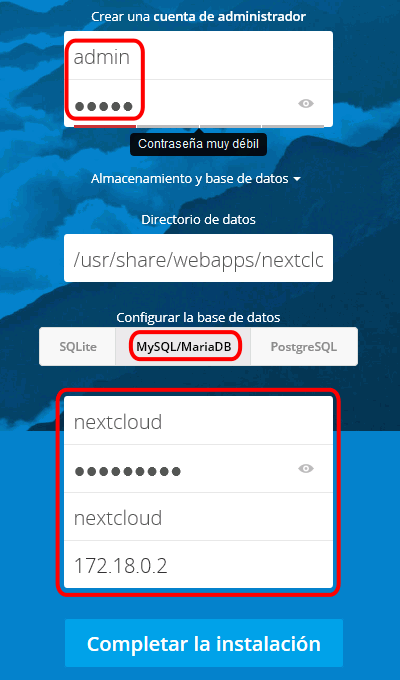
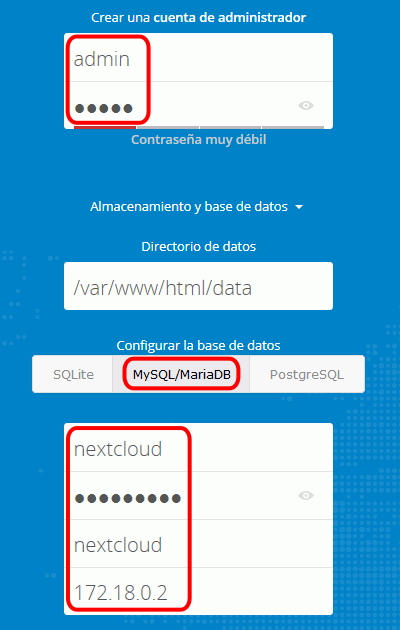
Sigo corrigiendo Nextcloud 1

diff --git a/otros/descarga-aplicaciones.html b/otros/descarga-aplicaciones.html
@@ -54,6 +54,9 @@
             <a href="http://www.mclibre.org/descargar/webapps/1718/wordpress_4-9_es-ES.zip">WordPress 4.9 en español (16/11/17)</a> -
             <a href="http://www.mclibre.org/descargar/webapps/1718/wordpress_4-9-1_es-ES.zip">WordPress 4.9.1 en español (29/11/17)</a>
           </li>
+          <li>NextCloud:
+            <a href="http://www.mclibre.org/descargar/webapps/1718/nextcloud_desktop_client_2-3-3-1.exe">Nextcloud Desktop Client 2.3.3 (20/11/17, 38,1 MB, versión para Windows)</a>
+          </li>
         </ul>
       </li>
       <li>Curso 2016/17
@@ -114,6 +117,7 @@
         <ul>
           <li><a href="http://www.mclibre.org/descargar/webapps/1617/webtrees-1.7.9.zip">WebTrees 1.7.9 (23/12/16)</a></li>
           <li><a href="http://www.mclibre.org/descargar/webapps/1617/elgg-2.3.1.zip">Elgg 1.7.9 (14/02/17)</a></li>
+          <li><a href="http://www.mclibre.org/descargar/webapps/1617/Joomla_3-7-2.zip">Joomla 3.7.2 (23/05/17)</a></li>
         </ul>
       </li>
       <li>Curso 2015/16
@@ -183,7 +187,7 @@
   </section>
 
   <footer>
-    <p class="ultmod">Última modificación de esta página: 11 de enero de 2018</p>
+    <p class="ultmod">Última modificación de esta página: 12 de febrero de 2018</p>
 
     <p class="licencia"><a rel="license" href="https://creativecommons.org/licenses/by-sa/4.0/deed.es_ES"><img src="../varios/iconos/icono-cc-by-sa.svg" alt="Licencia Creative Commons" title="Licencia Creative Commons BY-SA" width="120" height="42" /></a><br />
       Esta página forma parte del curso <strong><a href="http://www.mclibre.org/consultar/webapps/">Aplicaciones web</a></strong> por <a href="http://www.mclibre.org/" rel="author">Bartolomé Sintes Marco</a><br />

diff --git a/lecciones/nextcloud-1-soluciones.html b/lecciones/nextcloud-1-soluciones.html
@@ -101,7 +101,7 @@
         <p>La dirección debe ser del tipo <span class="codigo-modificacion">172.XXX.YYY.ZZZ</span></p>
       </li>
       <li>Configure el acceso de Nextcloud a la base de datos:
-        <p class="captura"><img src="../img/nextcloud/1-2-s-1-completar.png" alt="Nextcloud. Conexión con MariaDB" width="400" height="680" /></p>
+        <p class="captura"><img src="../img/nextcloud/1-2-s-1-completar.png" alt="Nextcloud. Conexión con MariaDB" width="400" height="630" /></p>
       </li>
       <li>Para salir de Nextcloud, haga clic en la rueda dentada (arriba a la derecha) y seleccione la opción Desconectar:
         <p class="captura"><img src="../img/nextcloud/1-2-s-2-salir.png" alt="Nextcloud. Salir" width="1008" height="260" /></p>
@@ -294,10 +294,10 @@ iface enp0s3 inet dhcp</code></pre>
 auto enp0s3
 #iface enp0s3 inet dhcp
 iface enp0s3 inet static
-address <span class="codigo-modificacion">192.168.1.16</span>
-netmask 255.255.255.0
-gateway <span class="codigo-modificacion">192.168.1.14</span>
-</code></pre>
+  address <span class="codigo-modificacion">192.168.1.16</span>
+  netmask 255.255.255.0
+  gateway <span class="codigo-modificacion">192.168.1.1</span>
+dns-nameservers 8.8.8.8</code></pre>
         </div>
       </li>
     </ol>

diff --git a/lecciones/nextcloud-1.html b/lecciones/nextcloud-1.html
@@ -114,7 +114,7 @@
       </li>
       <li>Salga de Nextcloud y compruebe que puede volver a entrar como administrador.
         <p class="captura">
-          <img src="../img/nextcloud/1-2-e-2-instalaciones.jpg" alt="Nextcloud. Entrar" width="400" height="350" />
+          <img src="../img/nextcloud/1-2-e-2-instalaciones.png" alt="Nextcloud. Entrar" width="400" height="350" />
         </p>
       </li>
       <li>Si ha instalado Nextcloud de manera que utilice MariaDB como base de datos, compruebe con phpMyAdmin que se han creado las tablas correspondientes. Si no se hubiera creado ninguna tabla es que Nextcloud está utilizando SQLite.
